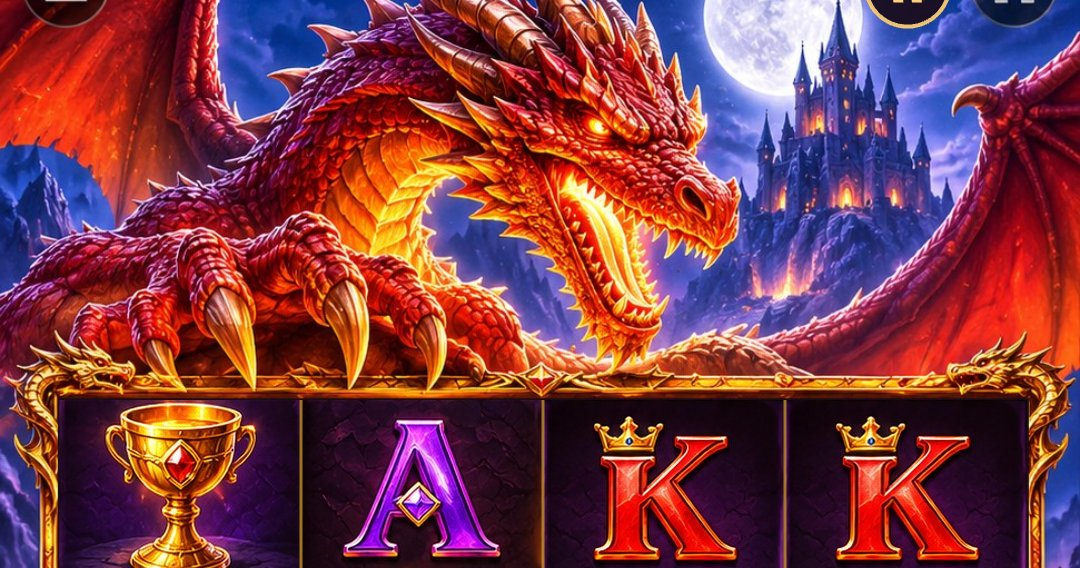
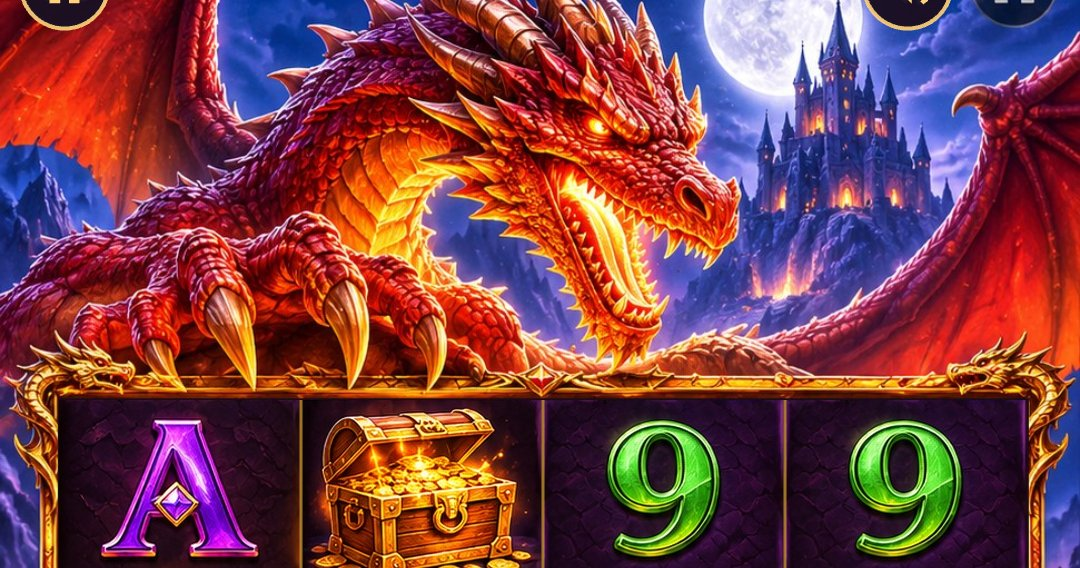
Dragon: remove coins and trophy buttons, add an "i" (paytable) button
- Slicer: trophy disc erased from the background (harmonic fill + rock
  detail), coins disc becomes ui/info.png with a drawn gold "i".
- View: "i" at the bottom-left opens the paytable; coins (cycle bet) and
  trophy buttons removed; bet stays on − / +.
- Lobby thumbnail regenerated; GAME.md updated.

Claude-Session: https://claude.ai/code/session_019R4DonhDGP4cLcYWmf4oad

diff --git a/src/games/dragon/views/DragonView.ts b/src/games/dragon/views/DragonView.ts
@@ -14,19 +14,17 @@ export class DragonView implements GameView {
   readonly hud = new DragonHUD();
   private readonly minus = make('minus');
   private readonly plus = make('plus');
-  private readonly coins = make('coins');
+  private readonly info = make('info');
   private readonly auto = make('auto');
   private readonly turbo = make('turbo');
-  private readonly trophy = make('trophy');
   private readonly fullscreenZone = new Container();
 
   constructor(actions: GameActions) {
     this.minus.onClick(() => actions.changeBet(-1));
     this.plus.onClick(() => actions.changeBet(1));
-    this.coins.onClick(() => actions.changeBet(1, true));
+    this.info.onClick(actions.openPaytable);
     this.auto.onClick(actions.toggleAutoplay);
     this.turbo.onClick(actions.toggleQuickSpin);
-    this.trophy.onClick(actions.openPaytable);
     skin.labelButton(this.auto, 'autoLabel', 'button.auto', DRAGON_LABEL_STYLE);
     skin.labelButton(this.turbo, 'turboLabel', 'button.turbo', DRAGON_LABEL_STYLE);
 
@@ -40,7 +38,7 @@ export class DragonView implements GameView {
   }
 
   private get buttons(): SpriteButton[] {
-    return [this.spinButton, this.minus, this.plus, this.coins, this.auto, this.turbo, this.trophy];
+    return [this.spinButton, this.minus, this.plus, this.info, this.auto, this.turbo];
   }
 
   private bg: Sprite | null = null;
@@ -61,7 +59,6 @@ export class DragonView implements GameView {
   setBetControls({ enabled, canDecrease, canIncrease }: BetControlsState): void {
     this.minus.enabled = enabled && canDecrease;
     this.plus.enabled = enabled && canIncrease;
-    this.coins.enabled = enabled;
   }
 
   setAutoplay(on: boolean): void { this.auto.active = on; }

diff --git a/src/games/dragon/assets.ts b/src/games/dragon/assets.ts
@@ -2,7 +2,7 @@ import { Assets, Texture } from 'pixi.js';
 import { assetUrl } from '@/engine';
 import { config } from './config';
 
-export const UI_SPRITES = ['coins', 'auto', 'spin', 'turbo', 'trophy', 'minus', 'plus'] as const;
+export const UI_SPRITES = ['info', 'auto', 'spin', 'turbo', 'minus', 'plus'] as const;
 export type UiSpriteName = typeof UI_SPRITES[number];
 
 const textures = new Map<string, Texture>();

diff --git a/src/games/dragon/tools/slice-skin.py b/src/games/dragon/tools/slice-skin.py
@@ -4,14 +4,15 @@ Slices ../art/source.png (971x1619 mockup) into game assets.
 Outputs (public/games/dragon/):
   bg.jpg               - full background; value texts erased, reel window darkened
   symbols/<id>.jpg     - 13 reel symbols, 242x180 (2x of the 121x90 game cell)
-  ui/<name>.png        - round buttons with feathered alpha (same pixel scale as bg)
+  ui/<name>.png        - round buttons with feathered alpha (same pixel scale as bg);
+                         info.png = the coins disc with its icon removed and a gold "i" drawn in
 
 Usage:  npm run dragon:slice
 Requires Pillow + numpy.
 """
 from pathlib import Path
 import numpy as np
-from PIL import Image, ImageDraw, ImageFilter
+from PIL import Image, ImageDraw, ImageFilter, ImageFont
 import sys
 
 GAME = Path(__file__).resolve().parent.parent
@@ -38,14 +39,21 @@ INSET = 3  # px trimmed from each side to drop the golden separators
 
 # name -> (cx, cy, rx, ry) ellipse in source pixels
 BUTTONS = {
-    'coins': (92, 1465, 62, 62),
+    'info': (92, 1465, 62, 62),   # cut from the coins disc, icon replaced by "i"
     'auto': (243, 1465, 62, 62),
     'spin': (487, 1480, 172, 150),
     'turbo': (728, 1465, 62, 62),
-    'trophy': (878, 1465, 62, 62),
     'minus': (688, 1322, 30, 30),
     'plus': (912, 1322, 30, 30),
 }
+
+# Baked buttons removed from the game: erased from the background (cx, cy, r)
+REMOVED_BUTTONS = [(878, 1465, 68)]  # trophy (the paytable opens from "i")
+# Rock strip right of the button row (x0, y0, x1, y1): its fine detail re-textures the erased disc
+ROCK_DONOR = (800, 1368, 960, 1398)
+# Icon area inside the coins disc that becomes the "i" button (x0, y0, x1, y1)
+INFO_ICON_BOX = (60, 1433, 124, 1497)
+INFO_FONT = '/usr/share/fonts/truetype/dejavu/DejaVuSerif-Bold.ttf'
 
 # Baked value texts to erase (x0, y0, x1, y1)
 TEXT_BOXES = [(64, 1316, 256, 1358), (400, 1316, 546, 1358), (730, 1316, 876, 1358)]
@@ -55,6 +63,46 @@ TEXT_BOXES = [(64, 1316, 256, 1358), (400, 1316, 546, 1358), (730, 1316, 876, 13
 GLYPH_GROW = 3
 LABEL_BOXES = [(107, 1290, 212, 1318, 'gold'), (420, 1290, 527, 1318, 'gold'), (779, 1290, 827, 1318, 'gold'),
                (210, 1490, 294, 1520, 'gold'), (688, 1490, 766, 1516, 'gold')]
+
+
+def retexture(arr, src, disc):
+    """Add the high-frequency detail of ROCK_DONOR (strips mirrored to fill) to a smooth inpainted disc."""
+    cx, cy, r = disc
+    size = 2 * r
+    x0, y0, x1, y1 = ROCK_DONOR
+    strip = np.asarray(src.crop(ROCK_DONOR)).astype(float)
+    rows, flip = [], False
+    while sum(len(s) for s in rows) < size:
+        rows.append(strip[::-1] if flip else strip)
+        flip = not flip
+    tex = np.concatenate(rows)[:size]
+    tex = np.asarray(Image.fromarray(tex.astype(np.uint8)).resize((size, size), Image.BICUBIC)).astype(float)
+    blur = np.asarray(Image.fromarray(tex.astype(np.uint8)).filter(ImageFilter.GaussianBlur(6))).astype(float)
+    detail = tex - blur
+    yy, xx = np.mgrid[:size, :size]
+    d = np.sqrt((xx - r + 0.5) ** 2 + (yy - r + 0.5) ** 2) / r
+    w = np.clip((1 - d) / 0.25, 0, 1)[..., None]  # feathered towards the rim
+    region = arr[cy - r:cy + r, cx - r:cx + r].astype(float)
+    arr[cy - r:cy + r, cx - r:cx + r] = np.clip(region + detail * w, 0, 255).astype(np.uint8)
+
+
+def draw_info_icon(arr, button):
+    """Gold "i" (vertical gradient + dark outline, like the other icons) in the button centre."""
+    cx, cy = button[0], button[1]
+    size = 150
+    mask = Image.new('L', (size, size), 0)
+    font = ImageFont.truetype(INFO_FONT, 74)
+    ImageDraw.Draw(mask).text((size / 2, size / 2), 'i', font=font, fill=255, anchor='mm')
+    m = np.asarray(mask).astype(float) / 255
+    outline = np.asarray(mask.filter(ImageFilter.MaxFilter(5))).astype(float) / 255
+    t = np.linspace(0, 1, size)[:, None]
+    top, bottom = np.array([255, 230, 130]), np.array([224, 140, 20])
+    gold = top * (1 - t[..., None]) + bottom * t[..., None]
+    x0, y0 = cx - size // 2, cy - size // 2
+    region = arr[y0:y0 + size, x0:x0 + size].astype(float)
+    region = region * (1 - outline[..., None] * 0.85) + np.array([40, 16, 4]) * outline[..., None] * 0.85
+    region = region * (1 - m[..., None]) + np.broadcast_to(gold, region.shape) * m[..., None]
+    arr[y0:y0 + size, x0:x0 + size] = np.clip(region, 0, 255).astype(np.uint8)
 
 
 def main():
@@ -74,7 +122,13 @@ def main():
         inpaint(arr, b, mode, GLYPH_GROW)
     for b in TEXT_BOXES:
         erase_box(arr, b)
-    clean = Image.fromarray(arr.copy())
+    for cx, cy, r in REMOVED_BUTTONS:
+        inpaint(arr, (cx - r, cy - r, cx + r, cy + r), 'disc', 0, pad=8, iterations=3000)
+        retexture(arr, src, (cx, cy, r))
+    clean_arr = arr.copy()
+    inpaint(clean_arr, INFO_ICON_BOX, 'gold', 3)
+    draw_info_icon(clean_arr, BUTTONS['info'])
+    clean = Image.fromarray(clean_arr)
 
     for name, (cx, cy, rx, ry) in BUTTONS.items():
         pad = 2

diff --git a/src/games/dragon/GAME.md b/src/games/dragon/GAME.md
@@ -23,6 +23,7 @@
 1. Grid lines / button centres are measured on `art/source.png`; constants live in `slice-skin.py` and `config.json → skin.ui` (both in **source pixels**).
 2. `uiAnchor(name)` × `SKIN_SCALE` (540/971) places sprites exactly over the baked art, so a button sprite covers its own picture.
 3. Baked value texts are erased in the background (vertical interpolation); buttons are cut from the erased image (the spin wings overlap the LAST WIN panel).
+   The mockup's coins and trophy buttons are not used: the trophy disc is erased from the background (`REMOVED_BUTTONS`, harmonic fill + rock detail from `ROCK_DONOR`), the coins disc becomes `ui/info.png` (icon inpainted, gold "i" drawn by `draw_info_icon`).
 4. Engine buttons cover the baked top icons: home (`homeButton`) over the hamburger at top-left, sound toggle (`soundButton`) over the speaker at top-right.
 
 ## Math — two profiles
@@ -48,7 +49,7 @@
 Night falls over the castle; the mother dragon guards her clutch. Eggs and the rare dragon medals on the reels wake her: each egg buys one respin, each dragon three. In the nest burning WILDs land and stay (sticky), every new one keeps the night going for three more respins, and together they light up the lines. At dawn the nest pays its total win. `setFeatureMode` tints the scene to moonlight while the nest is active.
 
 ## Controls
-SPIN (hold = turbo loop), − / +, coins (cycle bet), AUTO (autoplay toggle), TURBO (quick reels toggle), trophy (paytable), fullscreen, sound on/off (top-right), home (top-left).
+SPIN (hold = turbo loop), − / + (bet), **i** (paytable, bottom-left), AUTO (autoplay toggle), TURBO (quick reels toggle), fullscreen, sound on/off (top-right), home (top-left).
 
 ## Content CDN
 - Paytable: `public/cdn/paytables/dragon/<lang>.html` (en, ru) — HTML template, payouts via `{{pay:ID:N}}`, art via `{{asset:symbols/ID.jpg}}`.
